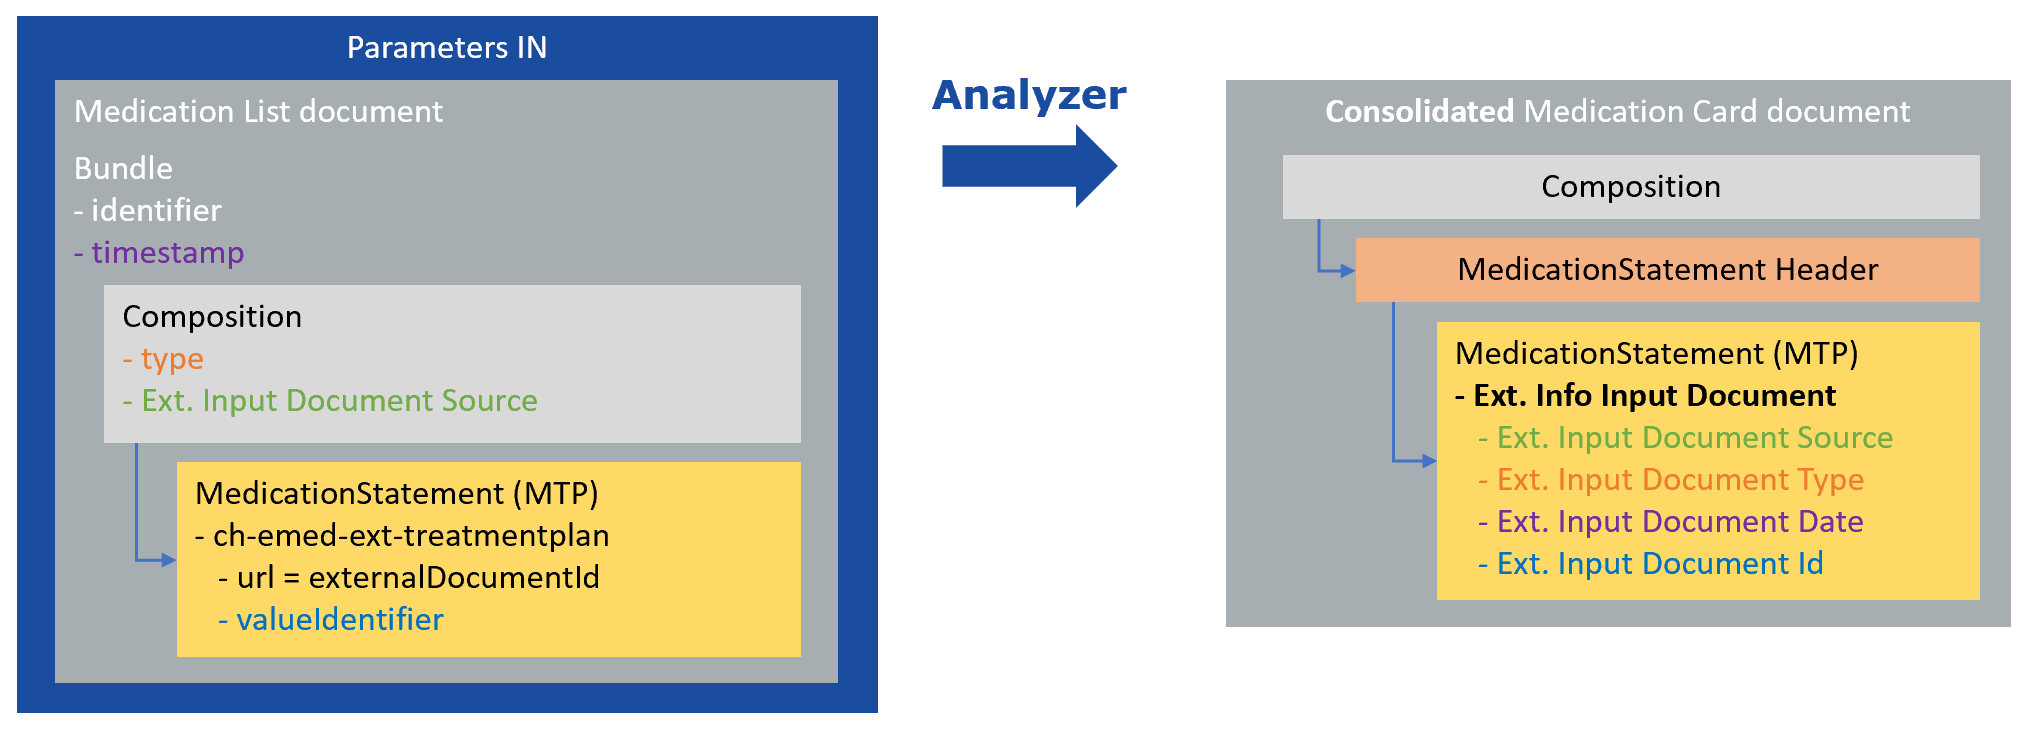
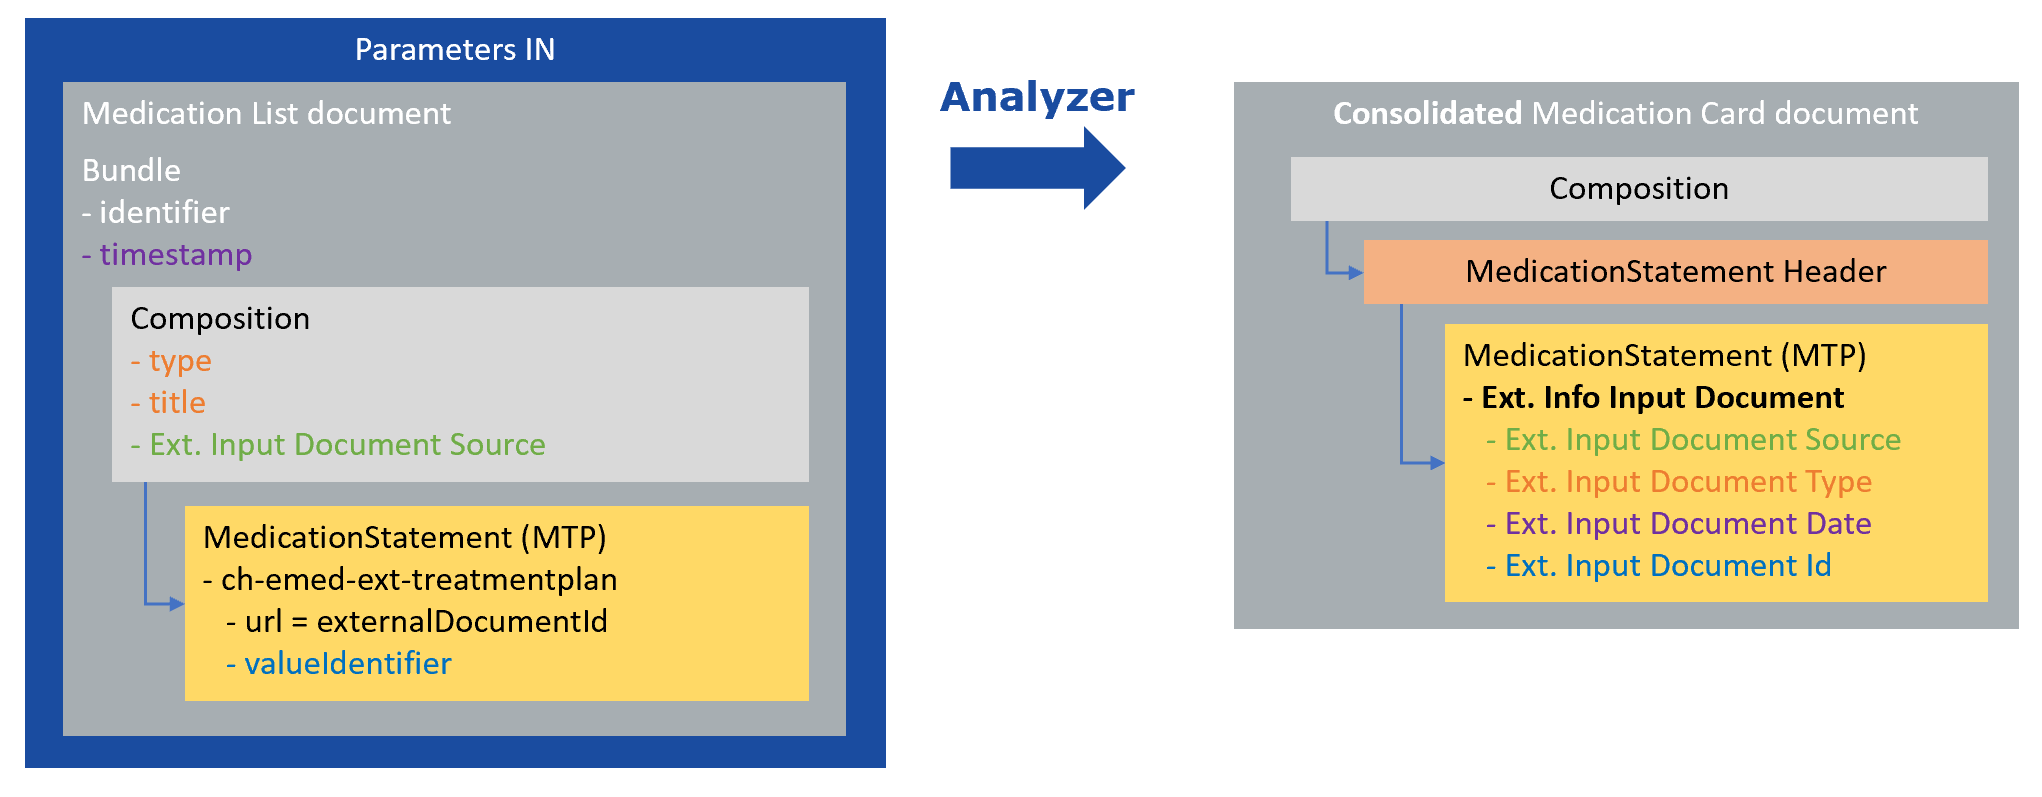
add additional value to differentiate LIST-CARD

Changed region(s): [[0.5897, 0.0936, 0.9931, 0.8738], [0.0, 0.0312, 0.4345, 0.9674], [0.4655, 0.0936, 0.5586, 0.2809]]

diff --git a/input/pagecontent/development.md b/input/pagecontent/development.md
@@ -87,32 +87,77 @@ The extension **Info Input Document** is set on each 'derivedFrom'-entry ([Medic
 * **Analyzer Output**: This information (from the input) is set on each 'derivedFrom'-entry, but not on the Header MedicationStatement.
 
 ##### Input Document Type
-This information is used to distinguish the following document types: MTP, PRE, DIS, PADV, LIST, CARD.
-
+This information is used to distinguish the following document types:
 * MTP/PRE/DIS/PADV: These document types have a unique value that can be taken from the input document (`Composition.type`):
   * MTP: LOINC 77603-9 Medication treatment plan.extended
+    ```json
+   {
+      "url" : "http://hcisolutions.ch/ig/analyzer/StructureDefinition/inputdocumenttype",
+      "valueCodeableConcept" : {
+         "coding" : [
+            {
+               "system" : "http://loinc.org",
+               "code" : "77603-9",
+               "display" : "Medication treatment plan.extended"
+            }
+         ]
+      }
+   }
+   ```
   * PRE: LOINC 57833-6 Prescription for medication
   * DIS: LOINC 60593-1 Medication dispensed.extended
   * PADV: LOINC 61356-2 Medication pharmaceutical advice.extended
-* LIST/CARD:These documents types have the same value and must therefore be differentiated via the title (`Composition.title`)
+* LIST/CARD: These documents types have the same value (`Composition.type`) and must therefore be differentiated via the title (`Composition.title`) (used afterwards to set the Input Document Id):
    * LIST/CARD: LOINC 56445-0 Medication summary
      * LIST: 'Medikationsliste' in german or 'Liste de médication' in french or 'Elenco delle terapie farmacologiche' in talian or Medication List' in english
+     ```json
+      {
+         "url" : "http://hcisolutions.ch/ig/analyzer/StructureDefinition/inputdocumenttype",
+         "valueCodeableConcept" : {
+            "coding" : [
+               {
+                  "system" : "http://loinc.org",
+                  "code" : "56445-0",
+                  "display" : "Medication summary"
+               }
+            ],
+            "text" : "Medication List"
+         }
+      }
+      ```
      * CARD: 'Medikationsplan' in german or 'Plan de médication' in french or 'Piano farmacologico' in talian or 'Medication Card' in english
+      ```json
+      {
+         "url" : "http://hcisolutions.ch/ig/analyzer/StructureDefinition/inputdocumenttype",
+         "valueCodeableConcept" : {
+            "coding" : [
+               {
+                  "system" : "http://loinc.org",
+                  "code" : "56445-0",
+                  "display" : "Medication summary"
+               }
+            ],
+            "text" : "Medication Card"
+         }
+      }
+      ```
+     * If none of these titles is specified, the additional information (.text) is omitted.
 
 ##### Input Document Id
 This information is needed, for example, when a medication is 'imported' via a LIST (input document), on which a PADV is to be created later (needs the reference externalDocumentId).   
 
 The identifier is taken from the input document as follows:
 * Input document = MTP/PRE/DIS/PADV/CARD => **Bundle.identifier** 
+   * If the additional information for CARD ("text" : "Medication Card") is missing, then follow the rules for LIST. It may happen that the externalDocumentId of another document (e.g. MTP) is used. This must be tolerated at the moment, as long as no other differentiation CARD/LIST is possible. The drug will be referenced correctly in any case, e.g. in a later PADV.
 * Input document = LIST
-   * MedicationDispense => extension.url = **"externalDocumentId"** -> valueIdentifier
+   * MedicationStatement => extension.url = **"externalDocumentId"** -> valueIdentifier
       * If it exists from this extension: `http://fhir.ch/ig/ch-emed/StructureDefinition/ch-emed-ext-treatmentplan`
       * If not, from the first extension where "externalDocumentId" exists
+   * MedicationDispense => extension.url = **"externalDocumentId"** -> valueIdentifier
+      * dito
    * MedicationRequest => extension.url = **"externalDocumentId"** -> valueIdentifier
       * dito 
    * Observation => extension.url = **"externalDocumentId"** -> valueIdentifier
-      * dito
-   * MedicationStatement => extension.url = **"externalDocumentId"** -> valueIdentifier
       * dito
 
 {% include img.html img="infoinputdocument-mtp.png" caption="Fig.: Schematic illustration of the Info Input Document (MTP), the logic also applies to PRE/DIS/PADV/CARD," width="80%" %}
